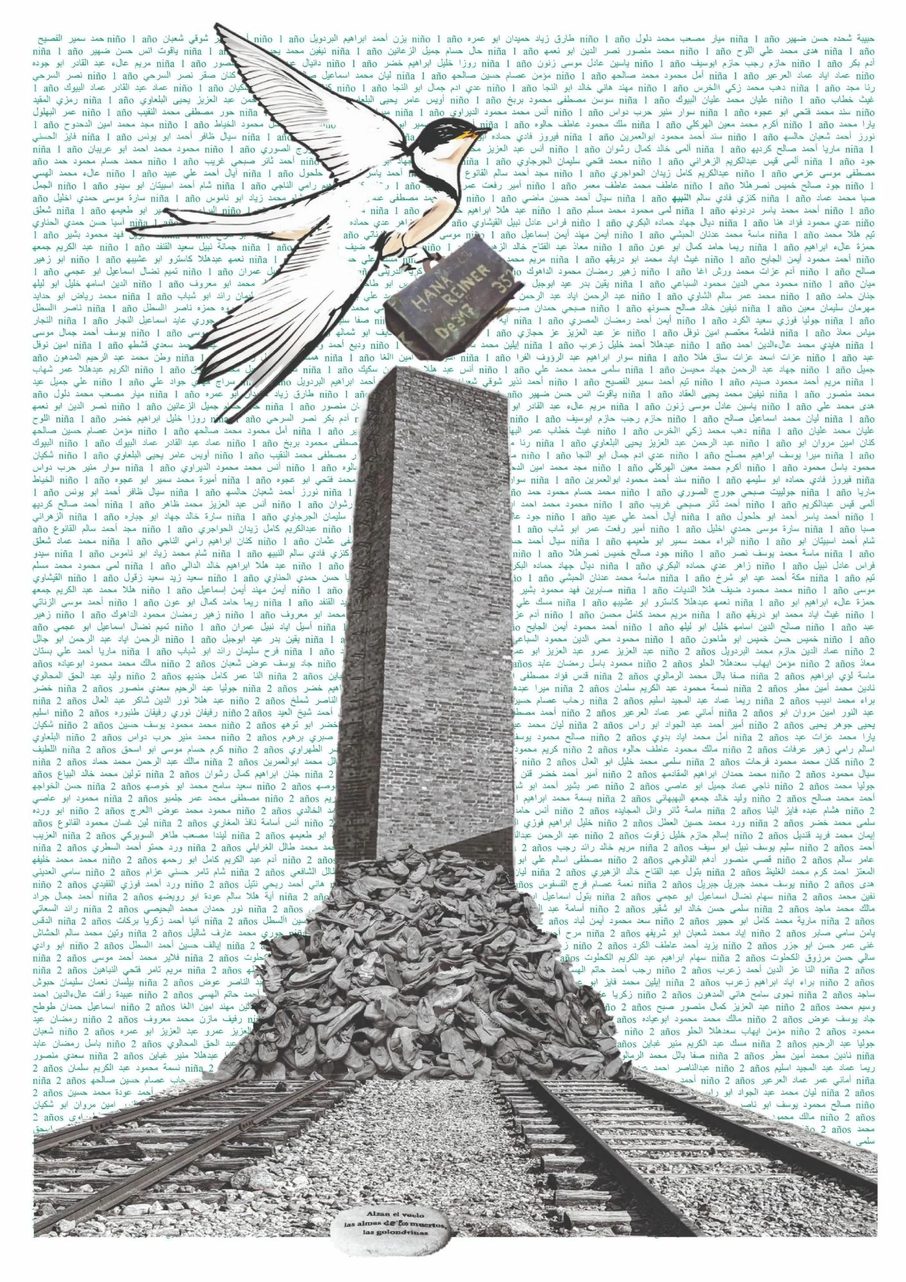
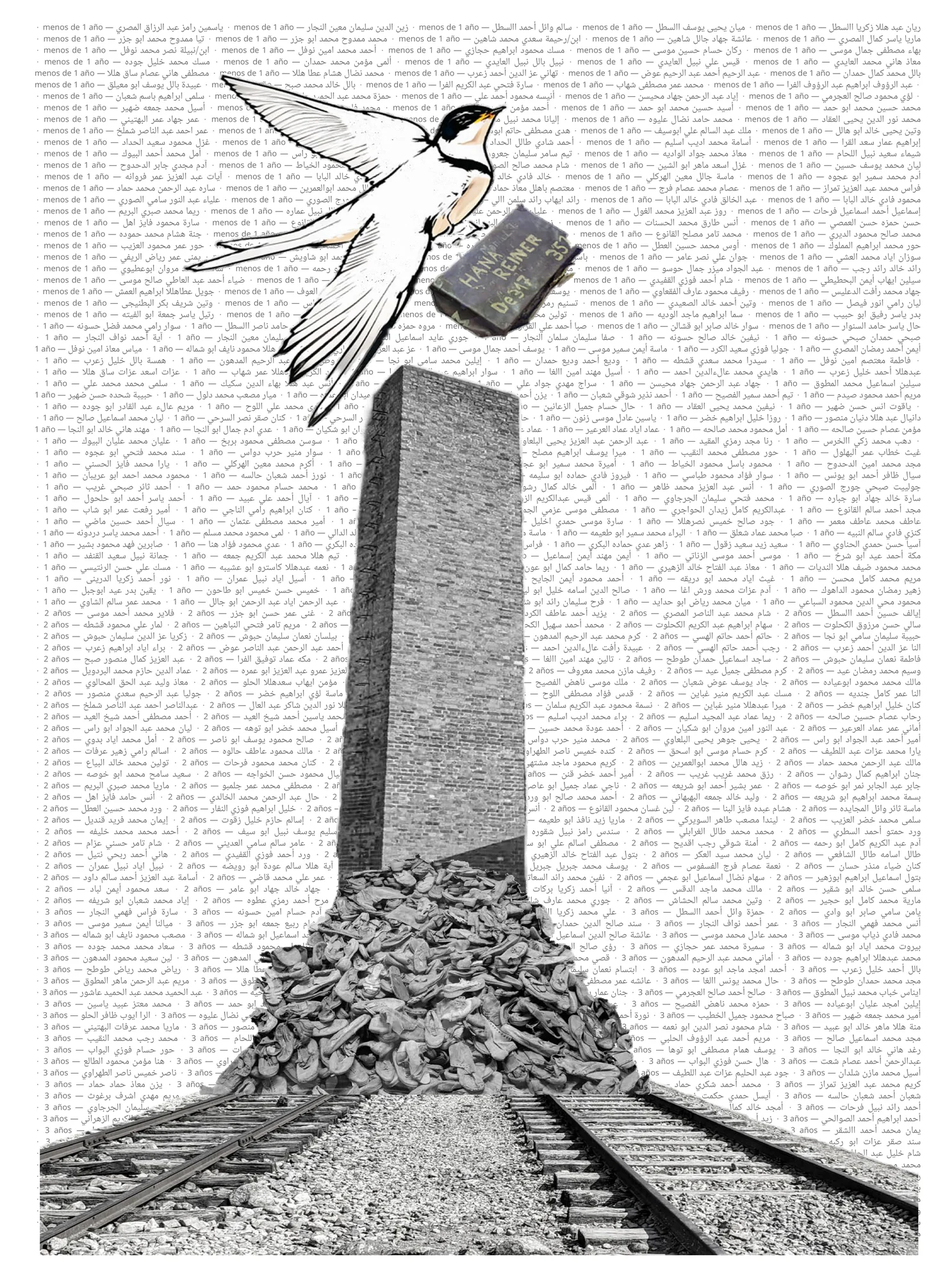
Poemas Visuales: versiones nuevas de Alzan el vuelo y 2523 (antes 3994)

diff --git a/paisajes-de-guerra/poemas-visuales-bilingue.html b/paisajes-de-guerra/poemas-visuales-bilingue.html
@@ -403,9 +403,9 @@
 
     <div class="gallery">
         <div class="artwork" data-index="0">
-            <img src="imagenes/poema-visual-3994.webp" alt="3994 — Poema visual. Luis González Palacios, técnica mixta sobre papel, 59 × 84 cm.">
+            <img src="imagenes/poema-visual-2523.webp" alt="2523 — Poema visual. Luis González Palacios, técnica mixta sobre papel, 59 × 84 cm.">
             <div class="artwork-label">
-                <h3 data-es="3994" data-en="3994">3994</h3>
+                <h3 data-es="2523" data-en="2523">2523</h3>
                 <p class="technique" data-es="Técnica mixta sobre papel · 59 × 84 cm" data-en="Mixed media on paper · 59 × 84 cm">Técnica mixta sobre papel · 59 × 84 cm</p>
             </div>
         </div>
@@ -440,7 +440,7 @@
 
     <script>
         const artworksData = [
-            { img: "imagenes/poema-visual-3994.webp", alt: "3994" },
+            { img: "imagenes/poema-visual-2523.webp", alt: "2523" },
             { img: "imagenes/poema-visual-alzan-el-vuelo.webp", alt: "Alzan el vuelo" }
         ];
 
@@ -448,7 +448,7 @@
             es: {
                 artworks: [
                     {
-                        title: "3994",
+                        title: "2523",
                         technique: "Técnica mixta sobre papel",
                         dimensions: "59 × 84 cm",
                         description: ""
@@ -464,7 +464,7 @@
             en: {
                 artworks: [
                     {
-                        title: "3994",
+                        title: "2523",
                         technique: "Mixed media on paper",
                         dimensions: "59 × 84 cm (23.2 × 33.1 in)",
                         description: ""

diff --git a/paisajes-de-guerra/visual-poems.html b/paisajes-de-guerra/visual-poems.html
@@ -395,9 +395,9 @@
 </header>
 <div class="gallery">
 <div class="artwork" data-index="0">
-<img alt="3994 — Visual poem. Luis González Palacios, mixed media on paper, 59 × 84 cm." src="imagenes/poema-visual-3994.webp"/>
+<img alt="2523 — Visual poem. Luis González Palacios, mixed media on paper, 59 × 84 cm." src="imagenes/poema-visual-2523.webp"/>
 <div class="artwork-label">
-<h3 data-en="3994" data-es="3994">3994</h3>
+<h3 data-en="2523" data-es="2523">2523</h3>
 <p class="technique" data-en="Mixed media on paper · 59 × 84 cm" data-es="Técnica mixta sobre papel · 59 × 84 cm">Mixed media on paper · 59 × 84 cm</p>
 </div>
 </div>
@@ -427,7 +427,7 @@
 </div>
 <script>
         const artworksData = [
-            { img: "imagenes/poema-visual-3994.webp", alt: "3994" },
+            { img: "imagenes/poema-visual-2523.webp", alt: "2523" },
             { img: "imagenes/poema-visual-alzan-el-vuelo.webp", alt: "Alzan el vuelo" }
         ];
 
@@ -435,7 +435,7 @@
             es: {
                 artworks: [
                     {
-                        title: "3994",
+                        title: "2523",
                         technique: "Técnica mixta sobre papel",
                         dimensions: "59 × 84 cm",
                         description: ""
@@ -451,7 +451,7 @@
             en: {
                 artworks: [
                     {
-                        title: "3994",
+                        title: "2523",
                         technique: "Mixed media on paper",
                         dimensions: "59 × 84 cm (23.2 × 33.1 in)",
                         description: ""

diff --git a/paisajes-de-guerra/index.html b/paisajes-de-guerra/index.html
@@ -165,7 +165,7 @@
       </a>
 
       <a class="seccion-card" href="poemas-visuales-bilingue.html">
-        <img class="seccion-img" src="imagenes/portada-iii.webp" width="360" height="450" loading="lazy" alt="3994 — Poema visual. Luis González Palacios, técnica mixta sobre papel, 59 × 84 cm.">
+        <img class="seccion-img" src="imagenes/portada-iii.webp" width="360" height="450" loading="lazy" alt="2523 — Poema visual. Luis González Palacios, técnica mixta sobre papel, 59 × 84 cm.">
         <p class="seccion-num" data-es="III" data-en="III">III</p>
         <h2 class="seccion-titulo" data-es="Poemas Visuales" data-en="Visual Poems">Poemas Visuales</h2>
         <p class="seccion-meta" data-es="2 obras · Técnica mixta sobre papel · 59 × 84 cm" data-en="2 works · Mixed media on paper · 59 × 84 cm">2 obras · Técnica mixta sobre papel · 59 × 84 cm</p>

diff --git a/paisajes-de-guerra/landscapes-of-war.html b/paisajes-de-guerra/landscapes-of-war.html
@@ -151,7 +151,7 @@
 <span class="seccion-enter" data-en="Enter →" data-es="Entrar →">Enter →</span>
 </a>
 <a class="seccion-card" href="visual-poems.html">
-<img alt="3994 — Visual poem. Luis González Palacios, mixed media on paper, 59 × 84 cm." class="seccion-img" height="450" loading="lazy" src="imagenes/portada-iii.webp" width="360"/>
+<img alt="2523 — Visual poem. Luis González Palacios, mixed media on paper, 59 × 84 cm." class="seccion-img" height="450" loading="lazy" src="imagenes/portada-iii.webp" width="360"/>
 <p class="seccion-num" data-en="III" data-es="III">III</p>
 <h2 class="seccion-titulo" data-en="Visual Poems" data-es="Poemas Visuales">Visual Poems</h2>
 <p class="seccion-meta" data-en="2 works · Mixed media on paper · 59 × 84 cm" data-es="2 obras · Técnica mixta sobre papel · 59 × 84 cm">2 works · Mixed media on paper · 59 × 84 cm</p>
